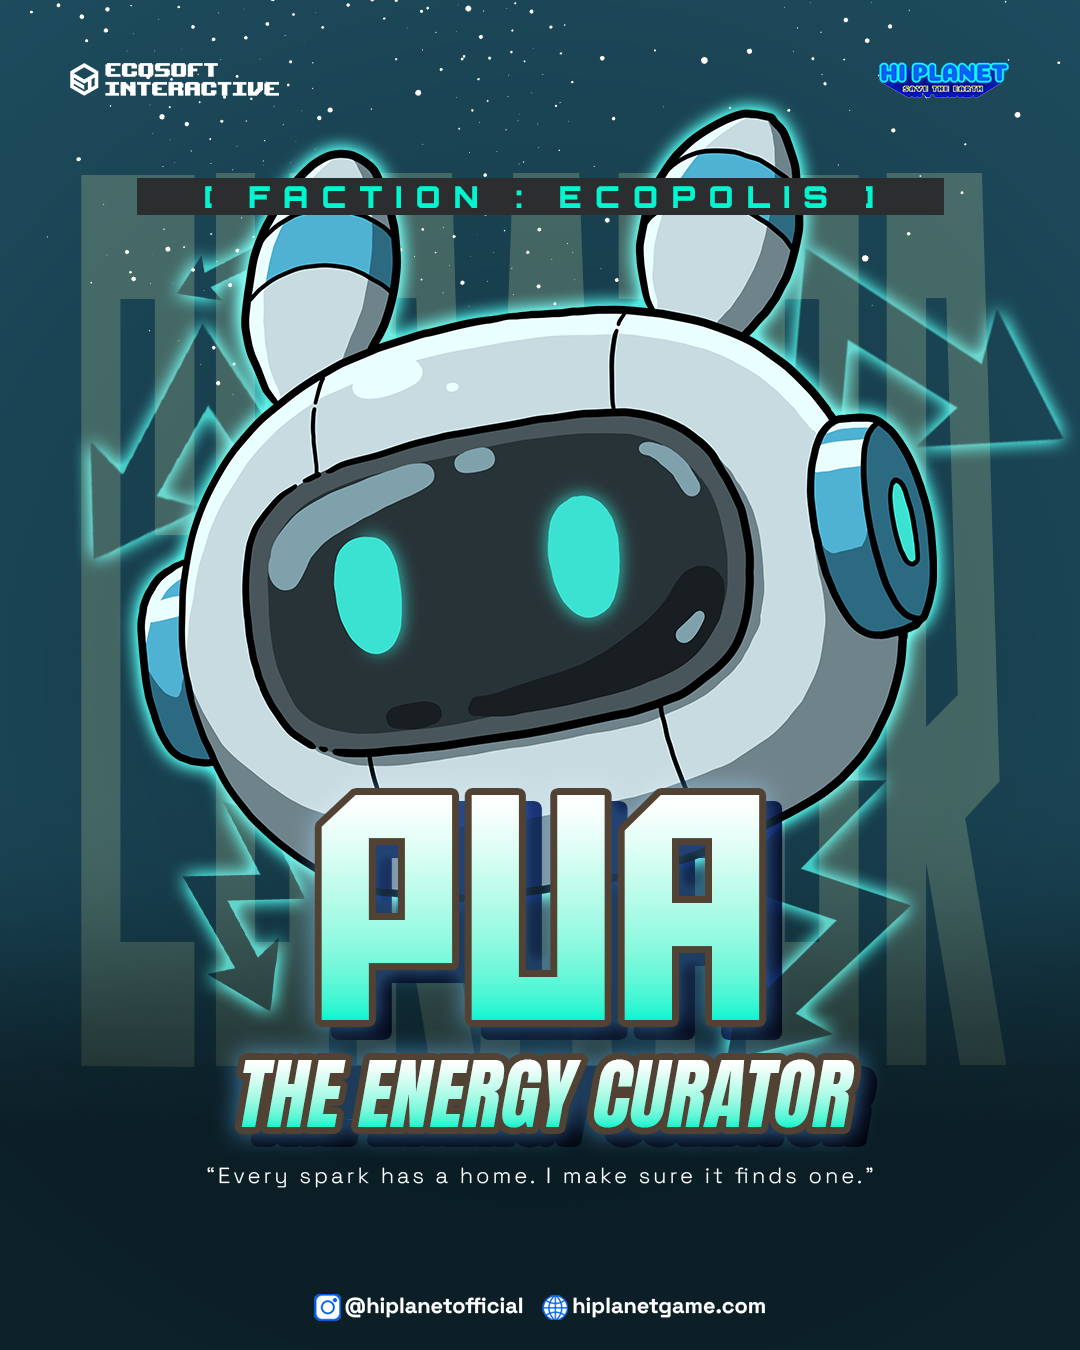
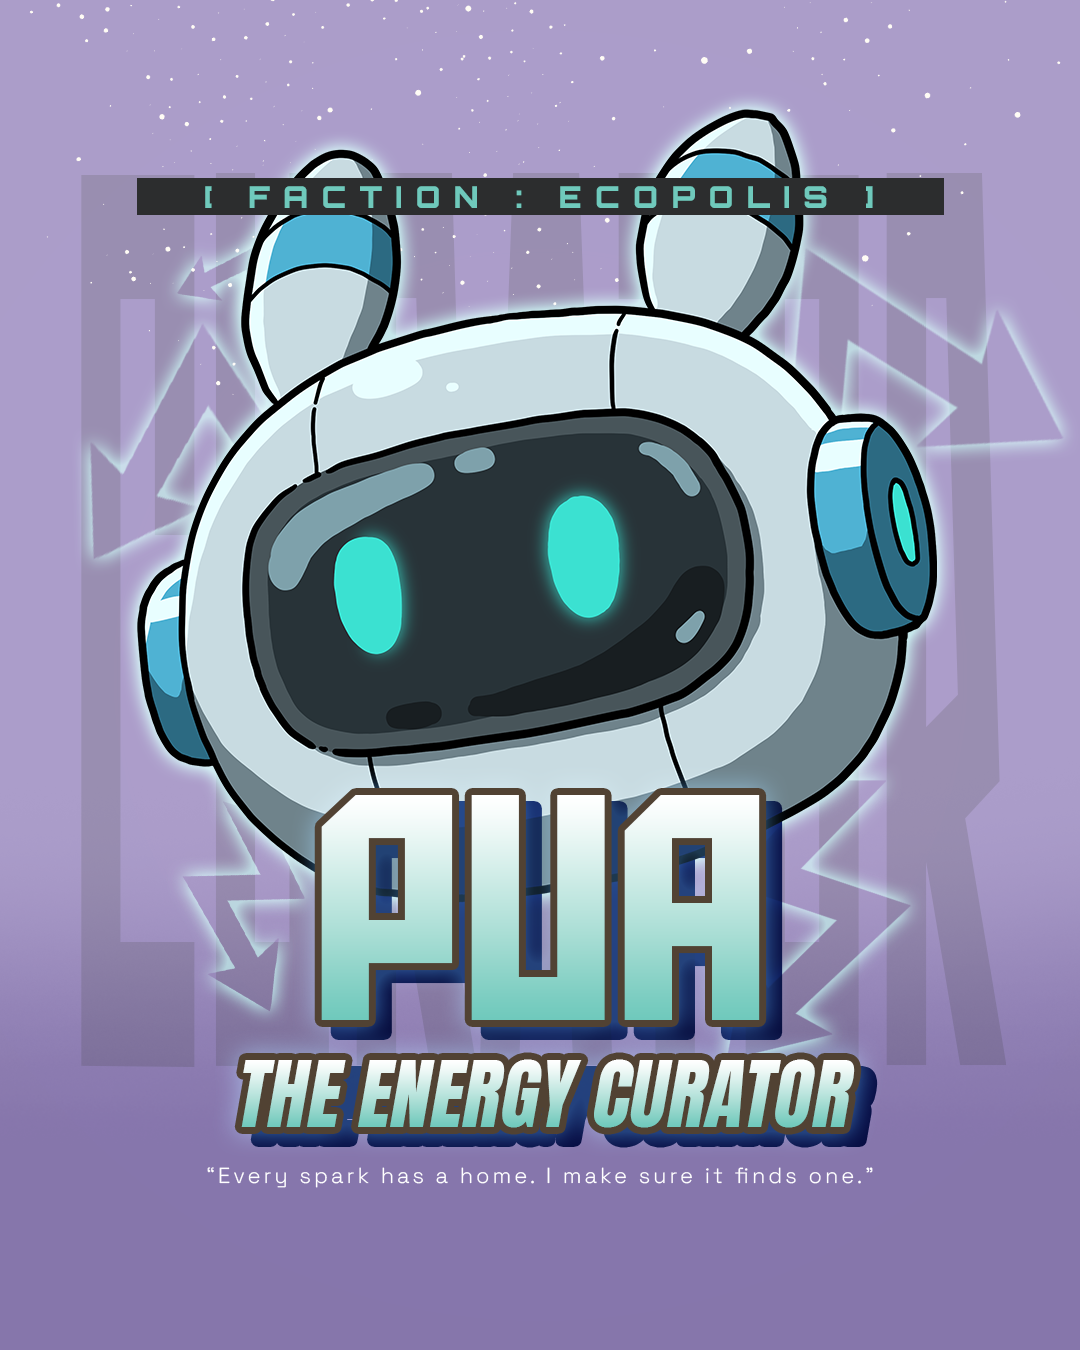
style(characters): change image PUA

diff --git a/src/views/CharactersView.vue b/src/views/CharactersView.vue
@@ -474,7 +474,7 @@ const charactersData: Character[] = [
     desc: 'The Satellizens are a group of cosmic watchers and celestial guardians created by the Big Bang Theory to oversee the well-being and development of their respective planets. These sentient beings are deeply connected to the planets they are assigned to, acting as their protectors, advisors, and record keepers. Each Satellizen has unique abilities that are attuned to the environment and energy of their respective planets, making them indispensable allies in preserving harmony across the cosmos.',
     elementEmoji: '🛰',
     energyPill: 'Guardians',
-    cardAccent: '#00fbd5',
+    cardAccent: '#e8f6f3',
     cardBg: 'rgba(186,230,253,0.1)',
     image: '/character/NPC/Pua_Website.png'
   }
